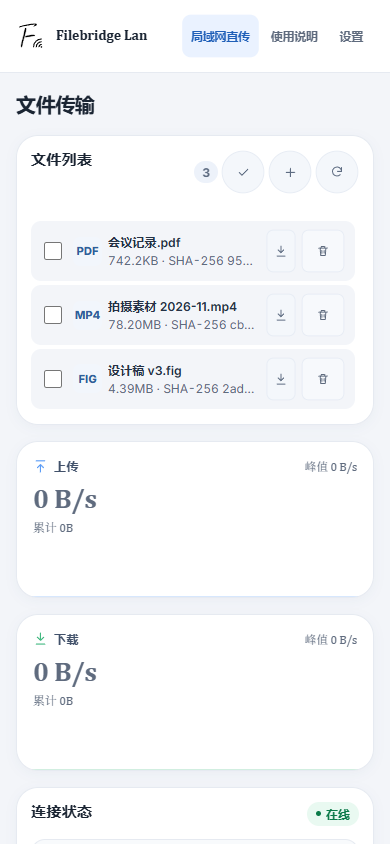
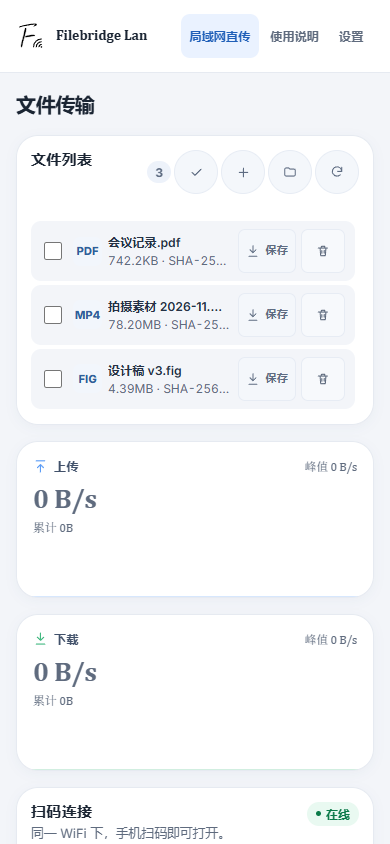
release: prepare 1.6.0-preview.4
- 版本号升到 1.6.0-preview.4（package / lock / tauri.conf / Cargo.toml / Cargo.lock / 界面标签）
- 新增 docs/RELEASE-1.6.0-preview.4.md，记录文字同步协议、UI 变更、自动化测试结果与仍需真机验收的项
- CHANGELOG 增加 preview.4 条目；README 版本引用与截图更新
- docs/DECISIONS.md 记录 preview.4 交付方式：Draft 供验收，稳定版另发 v1.6.0
- 重拍 1440/900/390/设置页/使用说明/上传恢复截图；新增文字同步长文本、会话失效、离线、手机宽度四张证据截图
- 新增 npm script test:clipboard（纯函数测试入口）

diff --git a/src/components/SettingsPanel.tsx b/src/components/SettingsPanel.tsx
@@ -178,7 +178,7 @@ export function SettingsPanel({ onClose }: SettingsPanelProps) {
           <BrandMark variant="app" size={38} className="about-mark" />
           <div>
             <strong>Filebridge-Lan</strong>
-            <span>版本 1.6.0 Preview 3</span>
+            <span>版本 1.6.0 Preview 4</span>
           </div>
           <button
             type="button"

diff --git a/src/App.tsx b/src/App.tsx
@@ -296,7 +296,7 @@ export default function App() {
         </nav>
 
         <div className="sidebar-foot">
-          <span className="sidebar-version">v1.6.0 Preview 3</span>
+          <span className="sidebar-version">v1.6.0 Preview 4</span>
           {!desktopApp && <span className="sidebar-mode">浏览器访问</span>}
         </div>
       </aside>

diff --git a/docs/RELEASE-1.6.0-preview.4.md b/docs/RELEASE-1.6.0-preview.4.md
@@ -1,0 +1,91 @@
+# Filebridge-Lan 1.6.0 Preview 4
+
+发布日期：2026-11-14（Draft，未发布）
+
+这是一个 **Preview 候选**，用于验收。它把文字同步补到可交付状态、修掉两个真实缺陷，并完成 1.6.0 的界面收尾。真实手机、真实双机与跨网络环境仍未按本构建验收。
+
+## 本轮实际完成
+
+### 文字同步（Issue #2）
+
+- **安全修复：`source` 不再由客户端决定。** 服务端按连接推导来源（loopback → `desktop`，其余 → `phone`），客户端传来的 `source` 被忽略。修复前，远端调用方可以自称 `desktop` 从而抑制主机的系统剪贴板写入。
+- **Node 与 Rust Hub 行为对齐。** 写入检查顺序统一为「限流 → 未开启 → 超长 → 格式错误」，两端返回相同状态码与 `code`；边界、限流、鉴权、去重、清空、no-log 均有等价断言。
+- **会话失效立即清空。** `GET /api/clipboard` 返回 401/403 时，面板丢弃旧文本并提示重新配对；断线或 Public 暂停同样清空；token 变化时面板整体重置，不会把上一连接的内容带进新连接。
+- **桌面侧本地拦截超长文本。** 系统剪贴板文本超过 262144 字节时本地拒绝并提示，不再反复提交换回 413。
+- **面板层级按验收要求重排**：最新文本 → 复制（主操作）→ 发送文本 → 从剪贴板读取 → 清空 → 关闭同步；后三项收进分隔线下方的弱化行，危险/低频动作不再与复制、发送同权重。
+
+### 界面收尾
+
+- 侧栏分「传输方式 / 应用」两组：局域网直传是主入口；跨网络中继为次要入口（浅色 + 「实验」徽标），**浏览器客户端与 ≤1000px 窄屏不显示**；进入中继页有实验性提示条与「返回局域网直传」。
+- 触屏选择热区 44×44（复选框可见方框仍为 18px），圆形图标按钮触屏 44px。
+- 上传已取消/失败时进度块标题分别显示「已取消」「上传失败」。
+
+### 修复的真实缺陷
+
+1. **文字同步来源可伪造**（见上）。
+2. **所有按钮常驻 `scale(0.97)`**：上一轮清理废弃 CSS 时把 `.btn / .btn-icon-round / .side-nav-item` 三个选择器误留在 `:active` 规则前，导致按钮常驻 97% 缩放、44px 触控目标实际只有 42.7px。已恢复 transition 规则并单独保留 `:active` 缩放，实测按钮高度恢复 44px。
+
+## 文字同步协议
+
+- `POST /api/clipboard` 的 body 只需要 `{ "text": "..." }`；`source` 由服务端推导。
+- 单条上限 **262144 字节（UTF-8）**；超出 `413 clipboard_too_large`。
+- 写入限流：全局 30 次/分钟、单 IP 10 次/分钟；超出 `429 clipboard_rate_limited`。
+- 未开启时 `409 clipboard_disabled`；非法请求 `400 clipboard_bad_request`。
+- 只有 `POST /api/clipboard/enabled` 需要 loopback（远端 `403 clipboard_host_only`），其余端点与文件 API 一样只校验 bearer token。
+- 文本只存在 Hub 内存：不落盘、不进发现广播、不进 URL、不进普通日志、不进 SSE 文件事件或上传诊断。
+- 去重按 SHA-256，内容不变不递增 `revision`，避免两端回显循环。
+
+### 浏览器限制（未变，不属于缺陷）
+
+- 手机端不承诺后台静默复制：复制必须由用户点击触发，权限被拒时保留文本并提供手动复制。
+- 「从剪贴板读取」同样受浏览器权限约束，失败后仍可手动粘贴或输入。
+
+## UI 变更
+
+- 文字同步卡片：动作层级与边界说明（仅当前已批准连接、只存内存、默认开启可随时关闭、局域网 HTTP 明文）。
+- 侧栏导航分组与中继入口弱化。
+- 触控目标修正。
+- 截图已按本构建重拍：`docs/screenshots/desktop-1440.png`、`desktop-900.png`、`mobile-390.png`、`settings-1440.png`、`guide-dialog.png`、`upload-recovery.png`。
+- 文字同步的证据截图：`docs/screenshots/clipboard-long-text-1440.png`（长文本换行）、`clipboard-error-1440.png`（会话失效后清空并提示）、`clipboard-offline-1440.png`（断网后「已暂停」且文本清空）、`clipboard-390.png`（手机宽度下的按钮尺寸与换行）。
+
+## 自动化测试结果（本构建实际运行）
+
+| 命令 | 结果 |
+|---|---|
+| `npm run check` | 通过 |
+| `npm run build` | 通过 |
+| `npm run test:version` | `VERSION_OK 1.6.0-preview.4` |
+| `npm run test:clipboard` | 7 项通过（新增） |
+| `npm run test:connection` | 通过 |
+| `npm run test:offsets` | 通过 |
+| `npm run test:hub` | `HUB_SMOKE_OK`（含文字同步鉴权/主机限定/source 推导/边界/限流/去重/清空/no-log） |
+| `npm run test:resume` | `RESUME_SMOKE_OK` |
+| `npm run test:bridge` | `BRIDGE_SMOKE_OK` |
+| `npm run test:firewall` | `FIREWALL_INSTALLER_TEST_OK` |
+| `cargo test` | 26 通过 / 1 忽略 |
+| `cargo check` | 通过（1 条既有弃用警告） |
+
+附加的界面自动验证（headless，非真机）：
+
+- 文字同步 UI 链路：输入 → 发送 → 最新文本显示 → 清空 → 显示「暂无文本」。
+- 长文本（3200 字符）不产生横向溢出，`scrollWidth == clientWidth`。
+- 会话失效（注入 401）：文本被清空并显示「连接已失效，请重新配对后再同步」。
+- 网络离线（CDP 断网 13 秒）：状态变为「已暂停」且文本清空。
+- 390px 下按钮实测高度 44px，无横向溢出。
+
+## 仍需用户验收（未完成，不要当作已验证）
+
+- **真实手机**（iPhone Safari / Android Chrome）用本构建复测：复制与读取权限、锁屏与后台切换、390×844 实际布局、长文本与 emoji 显示。
+- **真实双机**：附近发现 → 主机批准 → 传输 → 保存 的完整链路。
+- **Windows 系统剪贴板双向链路**：开启同步后复制 → 手机看到 → 手机发送 → 系统剪贴板写入。本轮只做了协议与界面层验证，没有在真实桌面窗口里跑通整条链路。
+- **Public 网络暂停/恢复、断线重连**的真实网络行为。
+- 多网卡 / VPN / AP 隔离环境。
+- Windows 10、触屏笔记本、900×600 窗口的实际观感与焦点顺序。
+- 跨网络中继的真实 WAN 验证（仍为实验性）。
+- 安装包未签名，Windows SmartScreen 可能提示。
+
+## 安装
+
+- 安装包由 CI 从 tag 构建，文件名 `Filebridge-Lan_1.6.0-preview.4_x64-setup.exe`，SHA-256 见 Release 正文。
+- 安装器内置防火墙规则：规则已指向安装目录 exe 时重装/升级完全静默；首次安装或规则失效时才需要一次管理员授权。
+- 本构建为 Draft，未公开发布。

diff --git a/CHANGELOG.md b/CHANGELOG.md
@@ -1,10 +1,16 @@
 # Changelog
 
-## 未发布 - 1.6.0 正式版前的整理
+## 1.6.0-preview.4 - Preview
 
+- 文字同步安全性：`source` 改由服务端按连接推导（loopback → 电脑，其余 → 手机），客户端无法伪造 desktop 来抑制主机写剪贴板；两端同步补断言
+- 文字同步一致性：Node/Rust Hub 检查顺序统一为限流 → 未开启 → 超长 → 格式错误，并补齐 262143 / 262144 / 262145 字节边界、限流、鉴权、去重、清空、no-log 测试
+- 文字同步面板：动作顺序改为 最新文本 → 复制 → 发送 → 从剪贴板读取 → 清空 → 关闭同步，低频动作收进分隔线下方的弱化行
+- 修复所有按钮常驻 `scale(0.97)` 的样式回归（上一轮清理废弃 CSS 时误留选择器），触控目标恢复真实 44px
+- token 失效或断线时立即清空文字并提示重新配对；连接切换时重置面板，不再继承上一连接的文本
+- 桌面系统剪贴板超过 256 KiB 时在本地拒绝并提示，不再反复提交到服务端换回 413
+- 新增 `npm run test:clipboard`（7 项纯函数测试）并接入 CI 与 release 流程
 - 导航改为「传输方式 / 应用」两组：跨网络中继降为侧栏次要入口（带「实验」徽标），浏览器客户端与 ≤1000px 窄屏不再显示入口
 - 进入跨网络中继页时显示实验性提示条与「返回局域网直传」
-- 文字同步卡片收敛操作层级：开关移到状态旁，复制升为主操作，「从剪贴板读取」并入发送区，并显式提示「默认开启」
 - 触屏选择热区提升到 44×44（复选框与圆形图标按钮），桌面视觉尺寸不变
 - 上传已取消/失败时进度块标题分别显示「已取消」「上传失败」，不再一律显示「上传中」
 - 统一 Node Hub 与 Rust Hub 的上传响应契约：`/api/upload` 与分块完成的 `201 Created`，分块未收完为 `200`；Rust 侧补断言

diff --git a/README.md b/README.md
@@ -46,14 +46,14 @@
 界面使用 Local Workbench 方向：固定侧栏、任务优先的卡片、Cambria 品牌与重点标题、Microsoft YaHei 中文和实际加载的 Inter 功能文本。上传诊断默认折叠；Safari 照片上传支持连续选择后统一上传。
 ## 直接安装（Windows）
 
-从 [GitHub Releases](https://github.com/8hourseontheleft6/Filebridge-Lan/releases) 下载 `Filebridge-Lan_1.6.0-preview.3_x64-setup.exe`，或本地构建：
+从 [GitHub Releases](https://github.com/8hourseontheleft6/Filebridge-Lan/releases) 下载 `Filebridge-Lan_1.6.0-preview.4_x64-setup.exe`，或本地构建：
 
 ```bash
 npm install
 npm run tauri build
 ```
 
-产物：`src-tauri/target/release/bundle/nsis/Filebridge-Lan_1.6.0-preview.3_x64-setup.exe`
+产物：`src-tauri/target/release/bundle/nsis/Filebridge-Lan_1.6.0-preview.4_x64-setup.exe`
 
 - 默认按当前用户安装到 `%LOCALAPPDATA%\Filebridge-Lan`
 - Windows 防火墙规则已内置进安装包，不再额外启动可见的 PowerShell 窗口：
@@ -64,7 +64,7 @@ npm run tauri build
 - 首次运行如防火墙弹窗，请允许专用网络（TCP 42080 + UDP 42081）
 - SHA-256 见 GitHub Release 的资产 digest
 
-版本说明：[docs/RELEASE-1.6.0-preview.3.md](docs/RELEASE-1.6.0-preview.3.md)
+版本说明：[docs/RELEASE-1.6.0-preview.4.md](docs/RELEASE-1.6.0-preview.4.md)
 
 > 从旧版本升级：首次启动会尝试把 `Downloads\FileBridge` 数据目录迁移到 `Downloads\Filebridge-Lan`。
 

diff --git a/docs/DECISIONS.md b/docs/DECISIONS.md
@@ -66,6 +66,6 @@
 
 ## 7. 版本与发布节奏
 
-- 本轮改动**不单独发预览**，累积到下一个版本；
-- 下一个版本号建议 `1.6.0-preview.4`（若仍需一轮预览验收）或直接 `1.6.0`（若真机与双机验收通过）；
+- 本轮改动累积到 `1.6.0-preview.4`，以 Draft Release 交付给用户验收，不直接发布稳定版；
+- 稳定版使用独立的 `v1.6.0`，不复用 Preview 资产；
 - `v1.5.6` 稳定版与 `v1.6.0-preview.3` 已发布资产均不改动。
